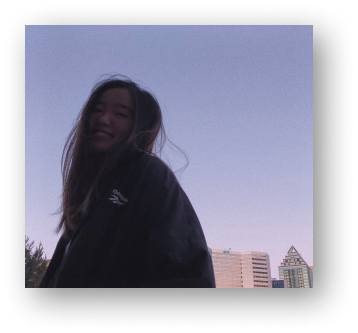
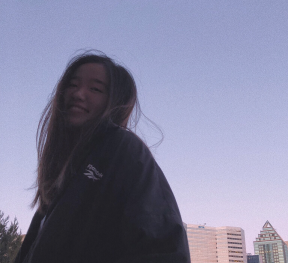
changed about me

diff --git a/src/AboutMe.jsx b/src/AboutMe.jsx
@@ -3,6 +3,7 @@ import './App.css';
 import Navbar from './navbar.jsx';
 import Scrollbar from 'react-scrollbars-custom';
 import Image from './assets/me.png';
+import Image2 from './assets/me2.png';
 import {
     BrowserRouter as Router,
     Switch,
@@ -60,10 +61,10 @@ export default class AboutMe extends Component {
                          <circle cx="10" cy="10" r="6" stroke="black" stroke-width="2" fill="rgb(241, 156, 129)" />
                      </svg>
                      <svg height="20" width="20">
-                         <circle cx="10" cy="10" r="6" stroke="black" stroke-width="2" fill="rgb(211, 222, 233)" />
+                         <circle cx="10" cy="10" r="6" stroke="black" stroke-width="2" fill="rgb(241, 238, 228)" />
                      </svg>
                      <svg height="20" width="20">
-                         <circle cx="10" cy="10" r="6" stroke="black" stroke-width="2" fill="rgb(211, 222, 233)" />
+                         <circle cx="10" cy="10" r="6" stroke="black" stroke-width="2" fill="rgb(241, 238, 228)" />
                      </svg>
                      </div>
                       <div style={{textAlign: "center"}}>
@@ -77,12 +78,17 @@ export default class AboutMe extends Component {
                          <h2> who am i? </h2>
 
                          <div class="about-me-description">
-                            <div>
-                            <img src={Image} alt="pic of me" class="me-pic" width="350px"/>
+                       
+                            <div style={{border: "4px solid rgb(82, 117, 163)", margin: "20px"}}>
+                            <img src={Image} alt="pic of me" class="me-pic" width="300px"/>
                             </div>
-                            <div style={{width: "470px", lineHeight: "6mm"}}>
-        
-                        <p> <span style={{color: "rgb(101, 128, 219)", fontSize: "18px", fontFamily: "Mirage Bold", fontWeight: "600"}}> Hi, I'm Darien! </span> I'm what you may call a <span style={{fontWeight: "600"}}> peculiar </span> person. I'm always asking myself - 
+   
+                            <div style={{border: "4px solid rgb(82, 117, 163)", margin: "20px"}}>
+                            <img src={Image2} alt="pic of me" class="me-pic" width="300px"/>
+                            </div>
+                        
+                            <div style={{ lineHeight: "6mm"}}>
+                        <p> <span style={{color: "rgb(82, 117, 163)", fontSize: "20px", fontFamily: "Mirage Black", fontWeight: "600"}}> Hi, I'm Darien! </span> I'm what you may call a <span style={{fontWeight: "600"}}> peculiar </span> person. I'm always asking myself - 
                 "How does this work?", "How do I solve this problem?", "Why do I like how this looks?". 
                 At McGill University, I study the uses of computers and programming languages, while 
                 developing technical skills and a new perspective on problem solving. In the process of 
@@ -91,7 +97,7 @@ export default class AboutMe extends Component {
                  way that resonates with people. </p>
                 </div>
                 <div style={{lineHeight: "6mm"}}> <p>
-               I was born in New Jersey, USA and moved to Toronto, Ontario when I was 6. Now, I've found 
+               I was born in New Jersey, USA and moved to Toronto, Canada when I was 6. Now, I've found 
                 my way to Montr&eacute;al to study <i>Computer Science </i> at McGill University. What may be interesting 
                 to you is how I originally applied to study Psychology, with no background in science at all, but found 
                 myself gravitating towards computers, math and weird code. This competitive undergraduate 
@@ -99,6 +105,8 @@ export default class AboutMe extends Component {
                 as well as opened doors for me to explore my creative side and has let me consider the endless 
                 career possibilities, as technology is constantly evolving in almost every industry.
                           </p>
+                         </div> 
+                         <div style={{lineHeight: "6mm"}}> 
                           <p> 
                           When I'm not at the library hunched over my laptop or pulling all-nighters at <span style={{textDecoration: "underline"}}><Link to="/Projects"> Hackathons</Link></span>, you
                 can find me exploring the city, taking a nice walk to the park or cooking up a storm in the 

diff --git a/src/App.css b/src/App.css
@@ -100,25 +100,20 @@ h5 {
 p {
   font-size: 16px;
   font-weight: normal;
-  font-family: 'WorkSans';
+  font-family: 'Jost';
 }
 
 a { 
   color: black; 
-   text-decoration: none;
+  text-decoration: none;
 }
 
 
 
 a:hover {
-   color: rgb(101, 128, 219);
+   color: rgb(82, 117, 163);
 }
 
-.title-pic { 
-   padding-top: 30px;
-   width: 600px; 
-   height: 230px;
-}
 .heading {
   padding-top: 30px;
   padding-bottom: 40px;
@@ -130,13 +125,6 @@ a:hover {
   left: 25px;
 
 }
-
-div {
-  position: relative;
-  border: 1px none #000;
-  border-radius: 0px;
-}
-
 
 
 header {
@@ -243,7 +231,7 @@ nav a:hover::before {
   box-shadow: 5px 5px;
   text-align: center;
   justify-content: center;
-  background-color: rgb(223, 230, 236);
+  background-color: rgb(241, 238, 228);
 
 }
 
@@ -256,7 +244,7 @@ nav a:hover::before {
   box-shadow: 5px 5px;
   text-align: center;
   justify-content: center;
-  background-color: rgb(253, 245, 235);
+  background-color: rgb(241, 238, 228);
 
 }
 
@@ -283,7 +271,9 @@ nav a:hover::before {
 
 .experience-block-1, .experience-block-2, .experience-block-3, .experience-block-4 { 
   width: 94%; 
-  background-color: rgb(235, 212, 212);
+  /* background-color: rgb(235, 212, 212); */
+  background-color: rgb(190, 201, 216); 
+
 }
 
 .about-text {
@@ -370,6 +360,7 @@ nav a:hover::before {
   display: flex;
   flex-wrap: wrap;
   padding-right: 20px;
+  justify-content: center;
 }
 
 .logo {
@@ -380,7 +371,7 @@ nav a:hover::before {
 
 .dropdown:hover {
 
-  color: rgb(101, 128, 219);
+  color: rgb(82, 117, 163);
 }
 
 .footer-block { 
